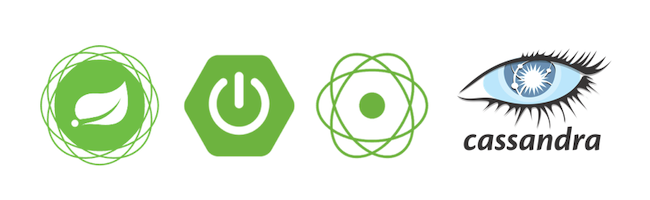
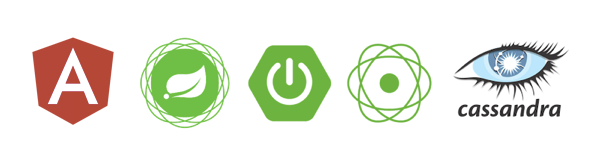
ok

Changed region(s): [[0.0311, 0.2134, 0.9344, 0.8232]]

diff --git a/README.md b/README.md
@@ -11,27 +11,34 @@ Implementation of the [Spring Pet Clinic]  backend using a REST backend implente
 ## Table of content
 
 - **(A) Run the Application on your laptop *(java + maven required)***
-  - Create a DBaas Cassandra free Account (ASTRA)
-  - Build and start the user interface
-  - Build and start the backend
-  - Setup the application to run Apache Cassandra locally (docker)
+  - [Create a DBaas Cassandra free Account (ASTRA)](#)
+  - [Build and start the user interface](#)
+  - [Build and start the backend](#)
+  - [Setup the application to run Apache Cassandra locally (docker)](#)
+
 
 - **(B) Run the Sample on Gitpod**
-  - Create a DBaas Cassandra free Account (ASTRA)
-  - Open Gitpod and follow instructions
+  - [Create a DBaas Cassandra free Account (ASTRA)]()
+  - [Open Gitpod and follow instructions](#)
 
 - **(C) Architecture**
- - Understanding the Pet Clinic Application
- - Architecture diagram of the version
- - Data Model from Relational to Cassandra data Model
+  - [Understanding the Pet Clinic Application](#)
+  - [Architecture diagram of the version](#)
+  - [Data Model from Relational to Cassandra data Model](#)
 
 - **(D) Contribute**
- - Blog post and communications\
- - Architecture diagram of the version
- - Data Model from Relational to Cassandra data Model
+  - Blog post and communications\
+  - Architecture diagram of the version
+  - Data Model from Relational to Cassandra data Model 
 
 
 ## Run the Application on your laptop
+
+### A1 - Create a DBaas Cassandra free Account (ASTRA)
+### A2 - Build and start the Angular  user interface
+### A3 - Build and start the Spring Boot backend
+
+
 
 Talk is cheap, show me the code.
 
